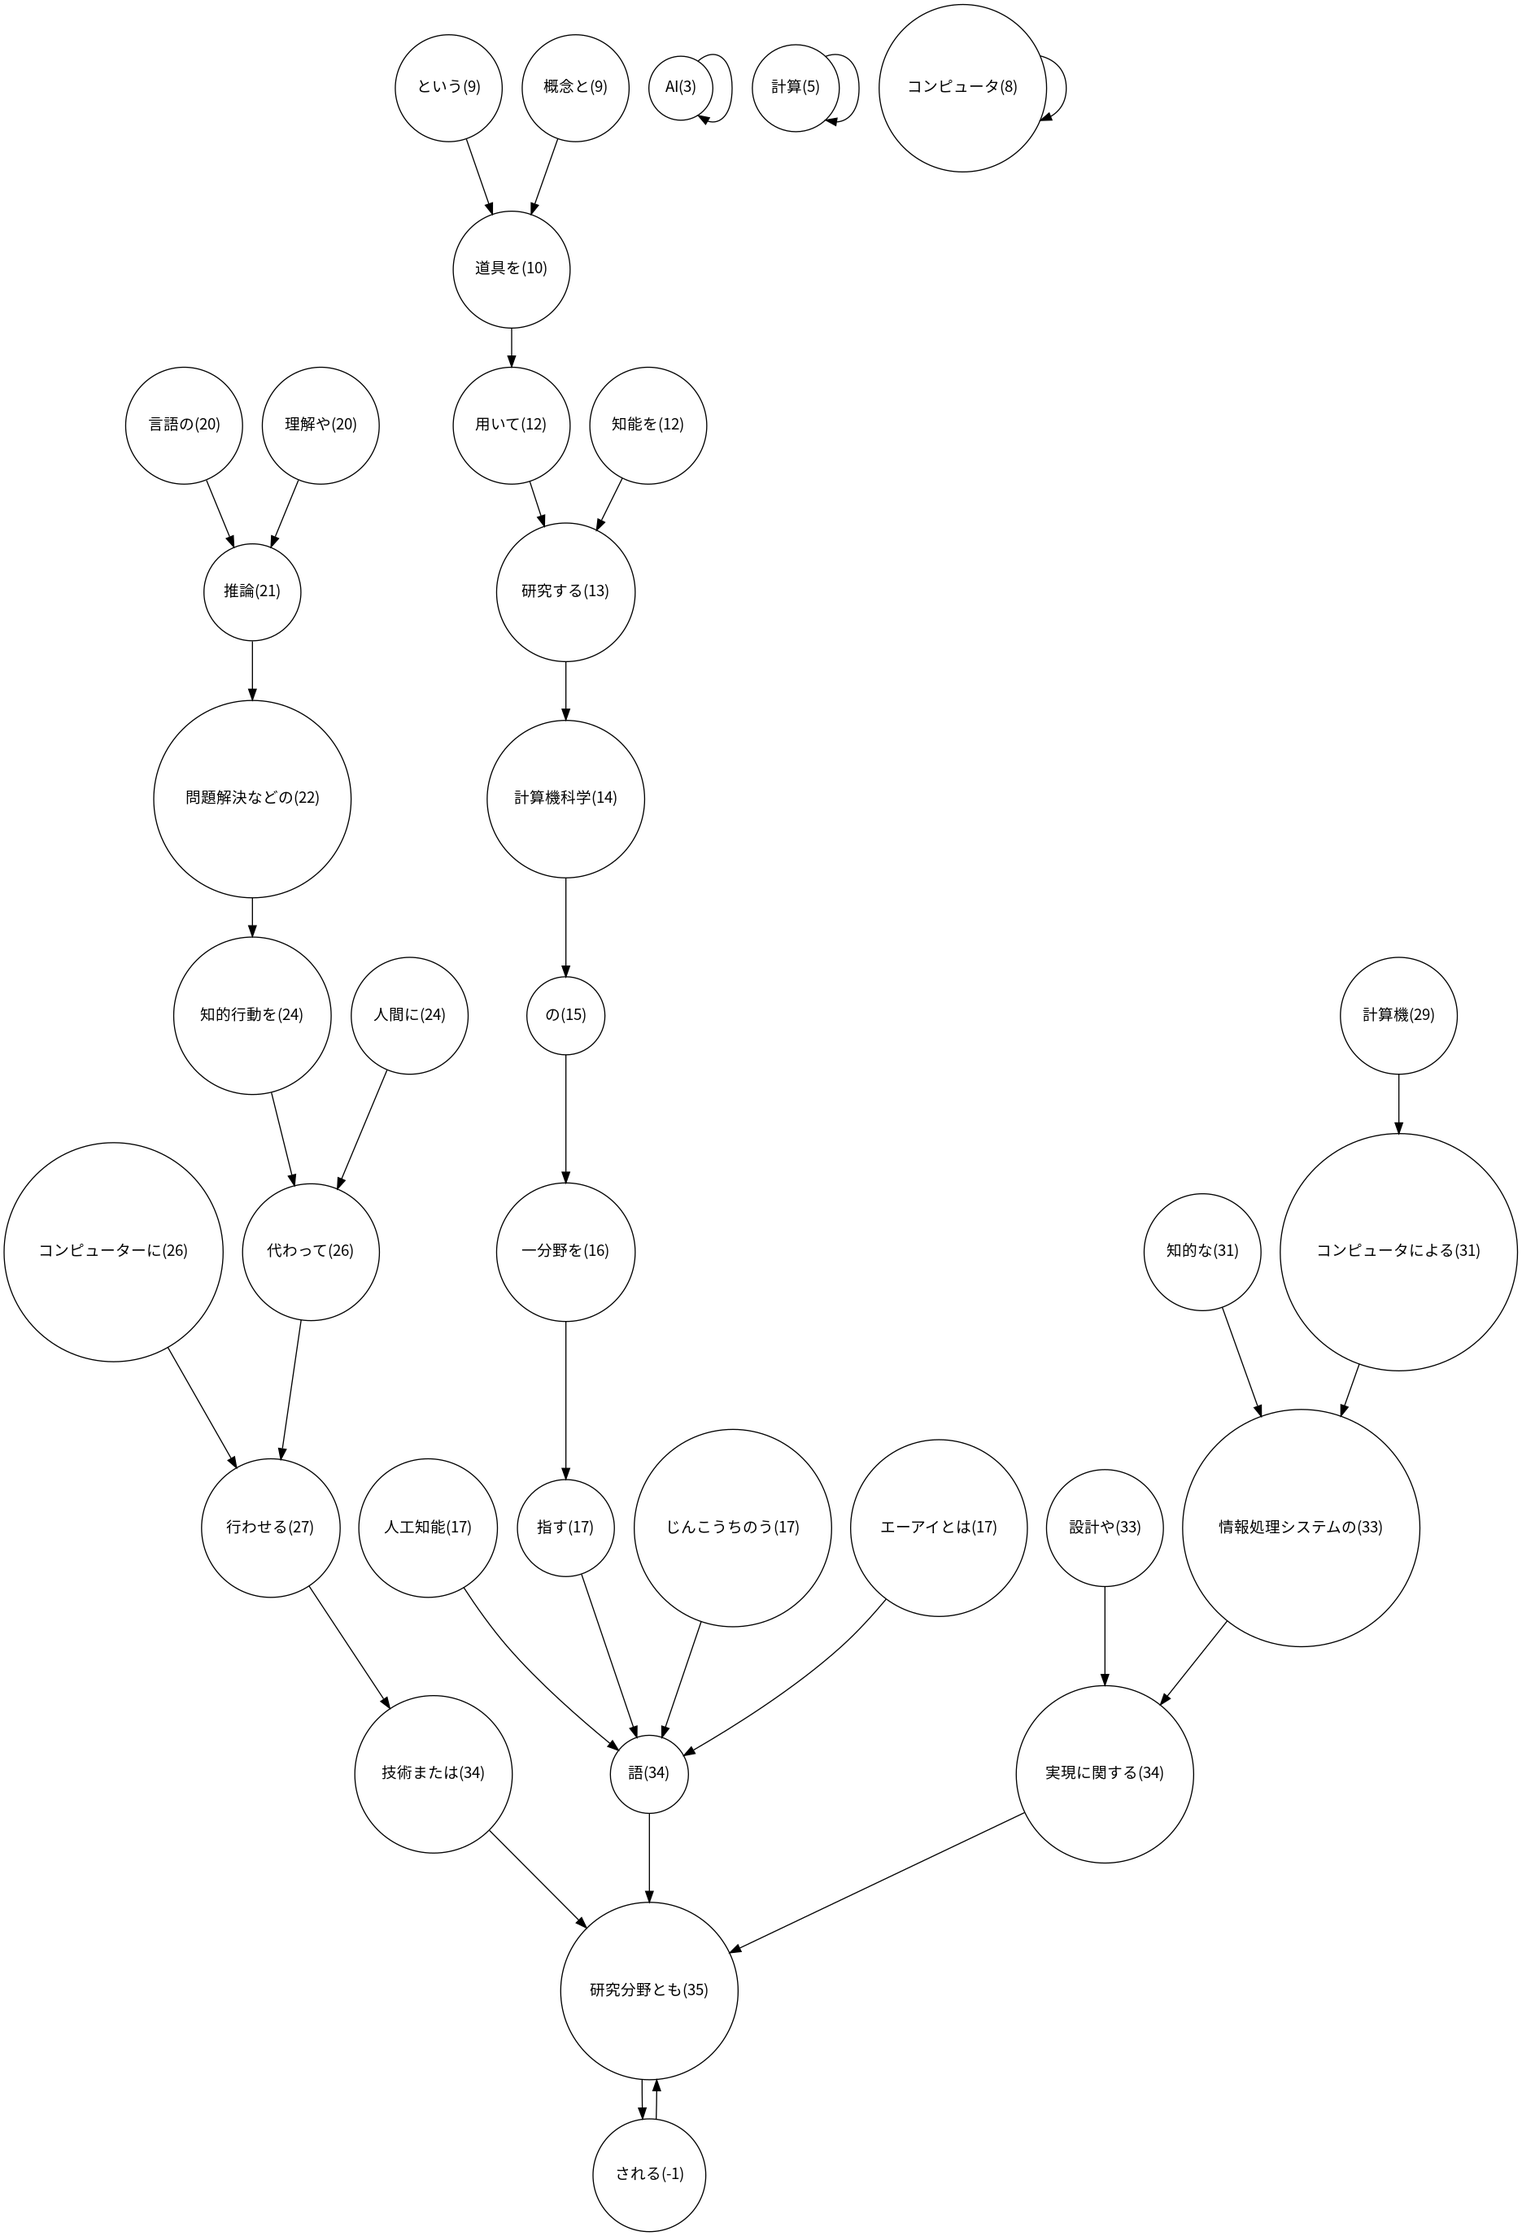
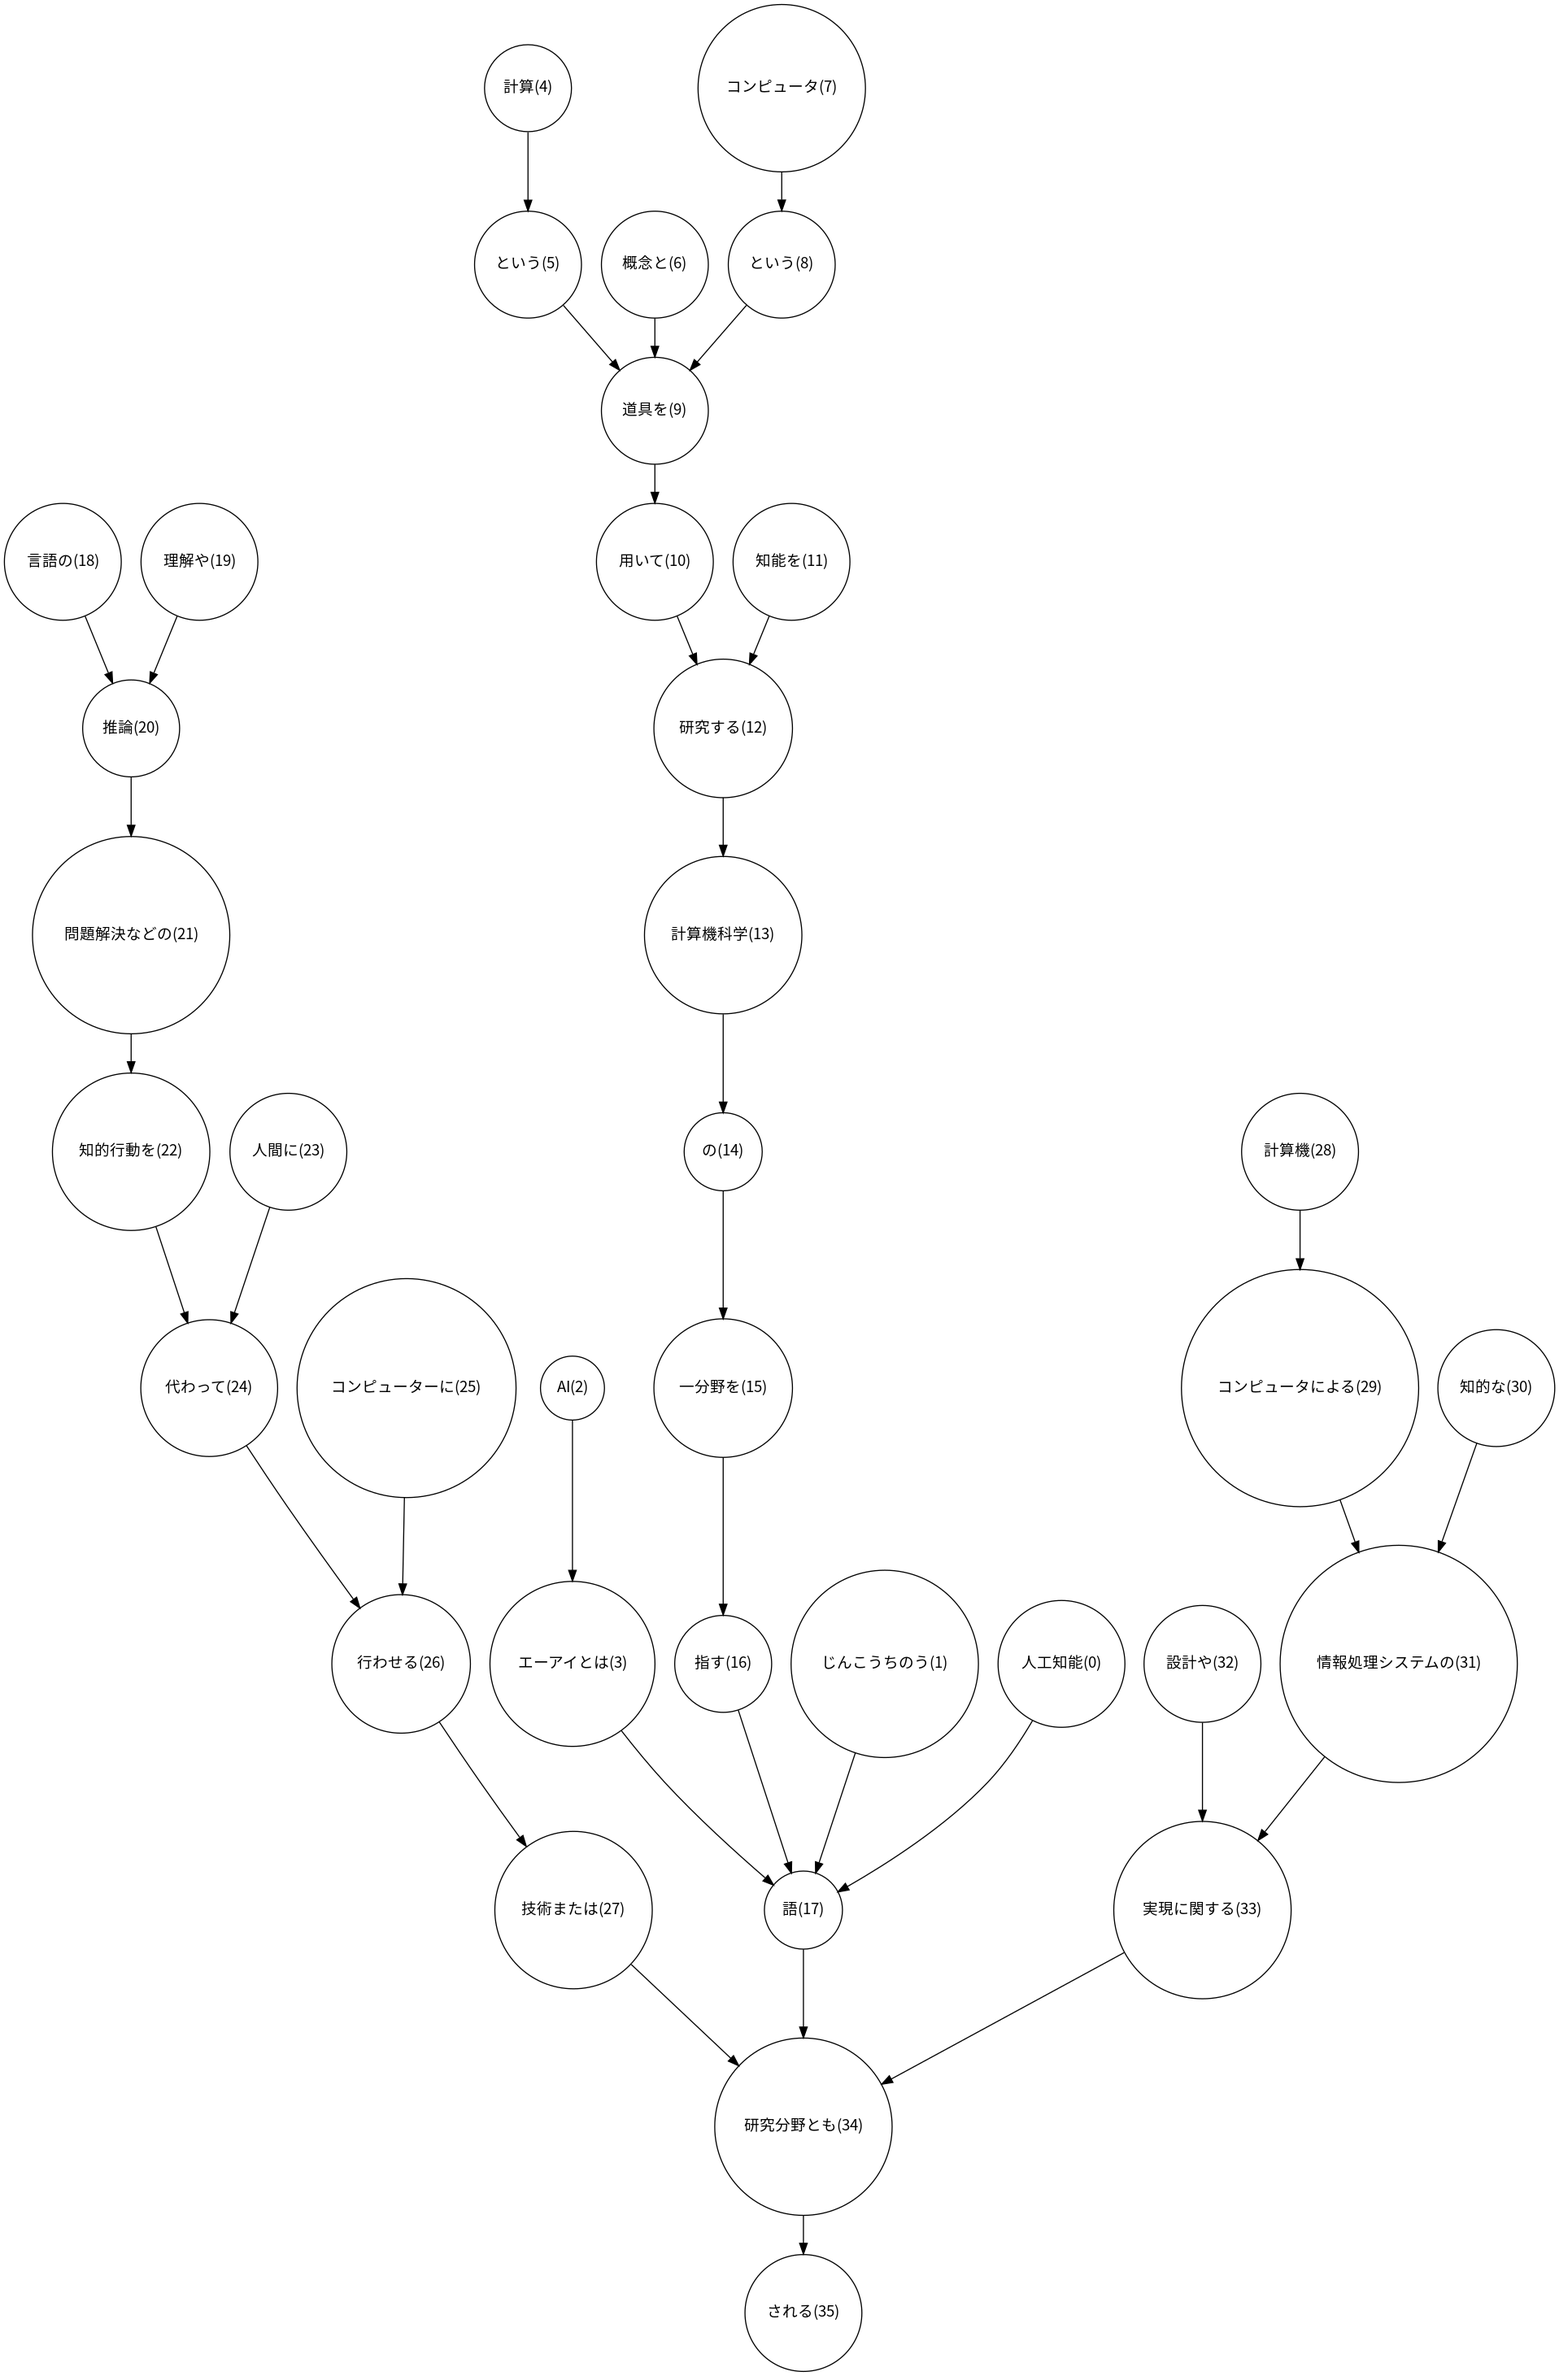
add 44

diff --git a/40-49/44.py b/40-49/44.py
@@ -74,32 +74,16 @@ def noun_to_verb(chunks):
                 break
 
 def show_graph(chunks):
-    # {人工知能:[17], じんこうちのう:[17]}
+    chunklist = []
+    for i, chunk in enumerate(chunks):
+        chunklist.append(chunk.phrase + "(" + str(i) + ")")
 
-    chunkdict = OrderedDict()
-    for chunk in chunks:
-        chunkdict[chunk.phrase]=chunk.dst
-
-    listed_chunkdict = list(chunkdict.items())
-
-    # 節を作成
-    # for k, v in chunkdict.items():
-    #     # edge_sentence = chunk.phrase + " (" + str(index) + ")" 
-    #     G.node(k + "(" + str(v) + ")")
-    
-    #辺を作成
-    # for index, chunk in enumerate(chunks):
-        # G.edge(chunk.phrase, chunks[chunk.dst].phrase)
-
-    for chunkdict in listed_chunkdict:
-        src_phrase = chunkdict[0] + "(" + str(chunkdict[1]) + ")"
-        dst_phrase = str(listed_chunkdict[chunkdict[1]-1][0]) + "(" + str(listed_chunkdict[chunkdict[1]-1][1]) + ")"
+    for i, chunk in enumerate(chunklist):
+        src_phrase = chunk
+        dst_phrase = chunklist[chunks[i].dst]
+        if chunks[i].dst == -1:
+            break       
         G.edge(src_phrase, dst_phrase)
-
-
-    # 同じ単語が区別されないのでインデックスを追加する
-    # 最後の文節が2回追加されているので文節追加処理部分を修正
-
     G.render('./44_result')
 
 
